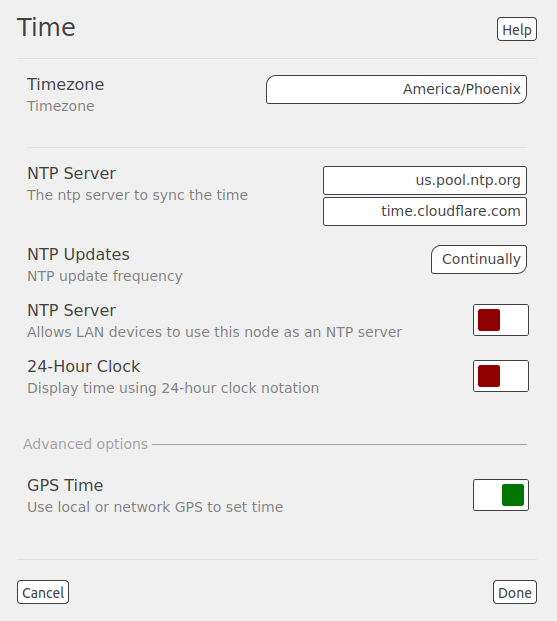
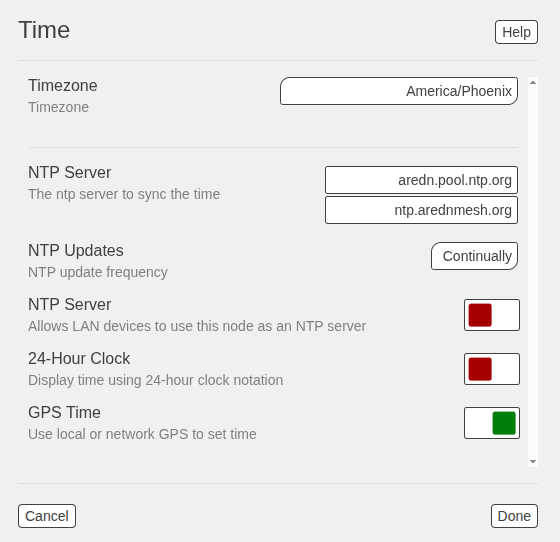
update time settings ui (#599)

diff --git a/arednGettingStarted/node_admin.rst b/arednGettingStarted/node_admin.rst
@@ -82,9 +82,9 @@ You can click the ``Cancel`` button to ignore any changes you made on this displ
 Time settings
 -------------
 
-Highlight and click the section displaying your node's time. Select your timezone from the dropdown list, where the default value is :abbr:`UTC (Coordinated Universal Time)`. Two fields are provided for entering the hostnames of :abbr:`NTP (Network Time Protocol)` servers if your node is connected to a network with network time services. You can enter valid hostnames in the *NTP Server* fields: for example ``us.pool.ntp.org`` or ``AD5BC-ntp.local.mesh``. You may also choose how often NTP will update the node’s clock by selecting a value from the *NTP Updates* dropdown list. The default is once per day [Daily] but you may also select once per hour [Hourly] or you can have your node run the NTP program [Continually].
+Highlight and click the section displaying your node's time. Select your timezone from the dropdown list, where the default value is :abbr:`UTC (Coordinated Universal Time)`. Two fields are provided for entering the hostnames of :abbr:`NTP (Network Time Protocol)` servers if your node is connected to a network with network time services. You can enter valid hostnames in the *NTP Server* fields: for example ``us.pool.ntp.org`` or ``AD5BC-ntp.local.mesh``. You may also choose how often NTP will update the node’s clock by selecting a value from the *NTP Updates* dropdown list. The default is once per day [Daily] but you may also select once per hour [Hourly] or you can have your node run the NTP program [Continually]. If you run NTP on your node *Continually* then a new switch will appear which allows your node to function as an NTP Server for any of your LAN-connected devices. The *NTP Server* switch is ``disabled`` by default.
 
-If you run NTP on your node *Continually* then a new switch will appear which allows your node to function as an NTP Server for any of your LAN-connected devices. The *NTP Server* switch is ``disabled`` by default.
+By default your node can use a local *GPS Time source if one is available. To disable this behavior, slide the switch to the *off* position. If you want your node to function as a GPS time *server* you will need to install the ``whenandwhere`` package. Select and install this package from the *Packages > Download Package* list on your node. This package installs the required dependencies for a USB GPS dongle so your node can provide GPS time for itself and other local DtD linked devices.
 
 .. image:: _images/admin-time.png
   :alt: Admin Time
@@ -93,12 +93,6 @@ If you run NTP on your node *Continually* then a new switch will appear which al
 |
 
 By default the time on your node will be shown as a 12-hour clock with *am/pm*. To display node time using a 24-hour clock, enable the *24-Hour Clock* switch.
-
-Additional options are displayed when you click **Advanced Options**.
-
-By default your node can use a local **GPS Time** source if one is available. To disable this behavior, slide the switch to the *off* position.
-
-If you want your node to function as a GPS time *server* you will need to install the ``whenandwhere`` package. Select and install this package from the *Packages > Download Package* list on your node. This meta-package installs the required dependencies for a USB GPS dongle so your node can provide GPS time for itself and other local DtD linked devices.
 
 If you plan to use Wireguard tunneling, make sure that a GPS or NTP time source is reachable when the node boots so that the key exchange between the client and server will happen correctly. Without proper time synchronization, Wireguard will not establish tunnels.
 
